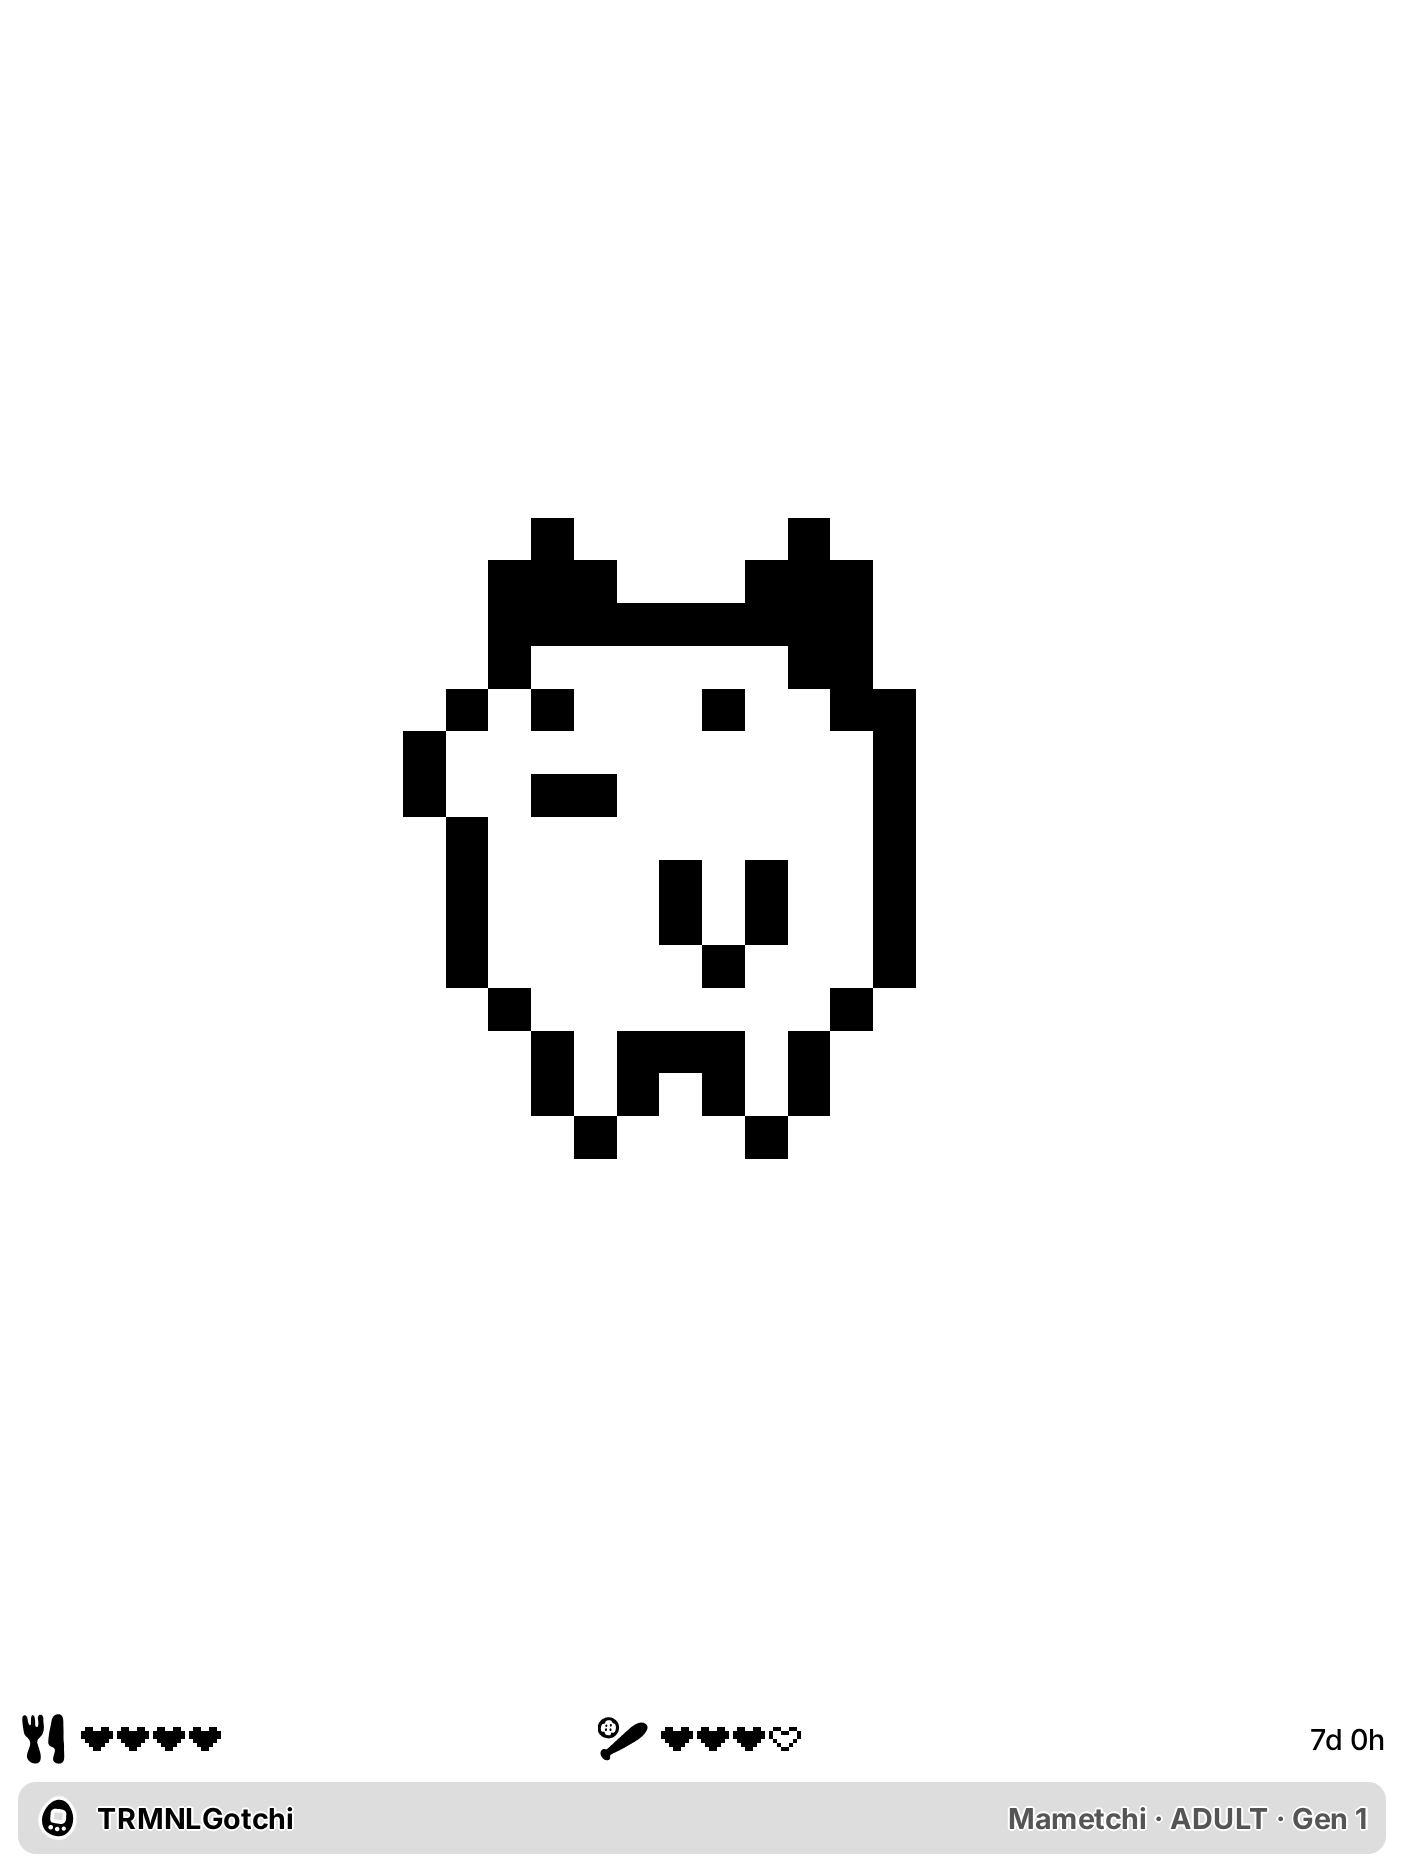
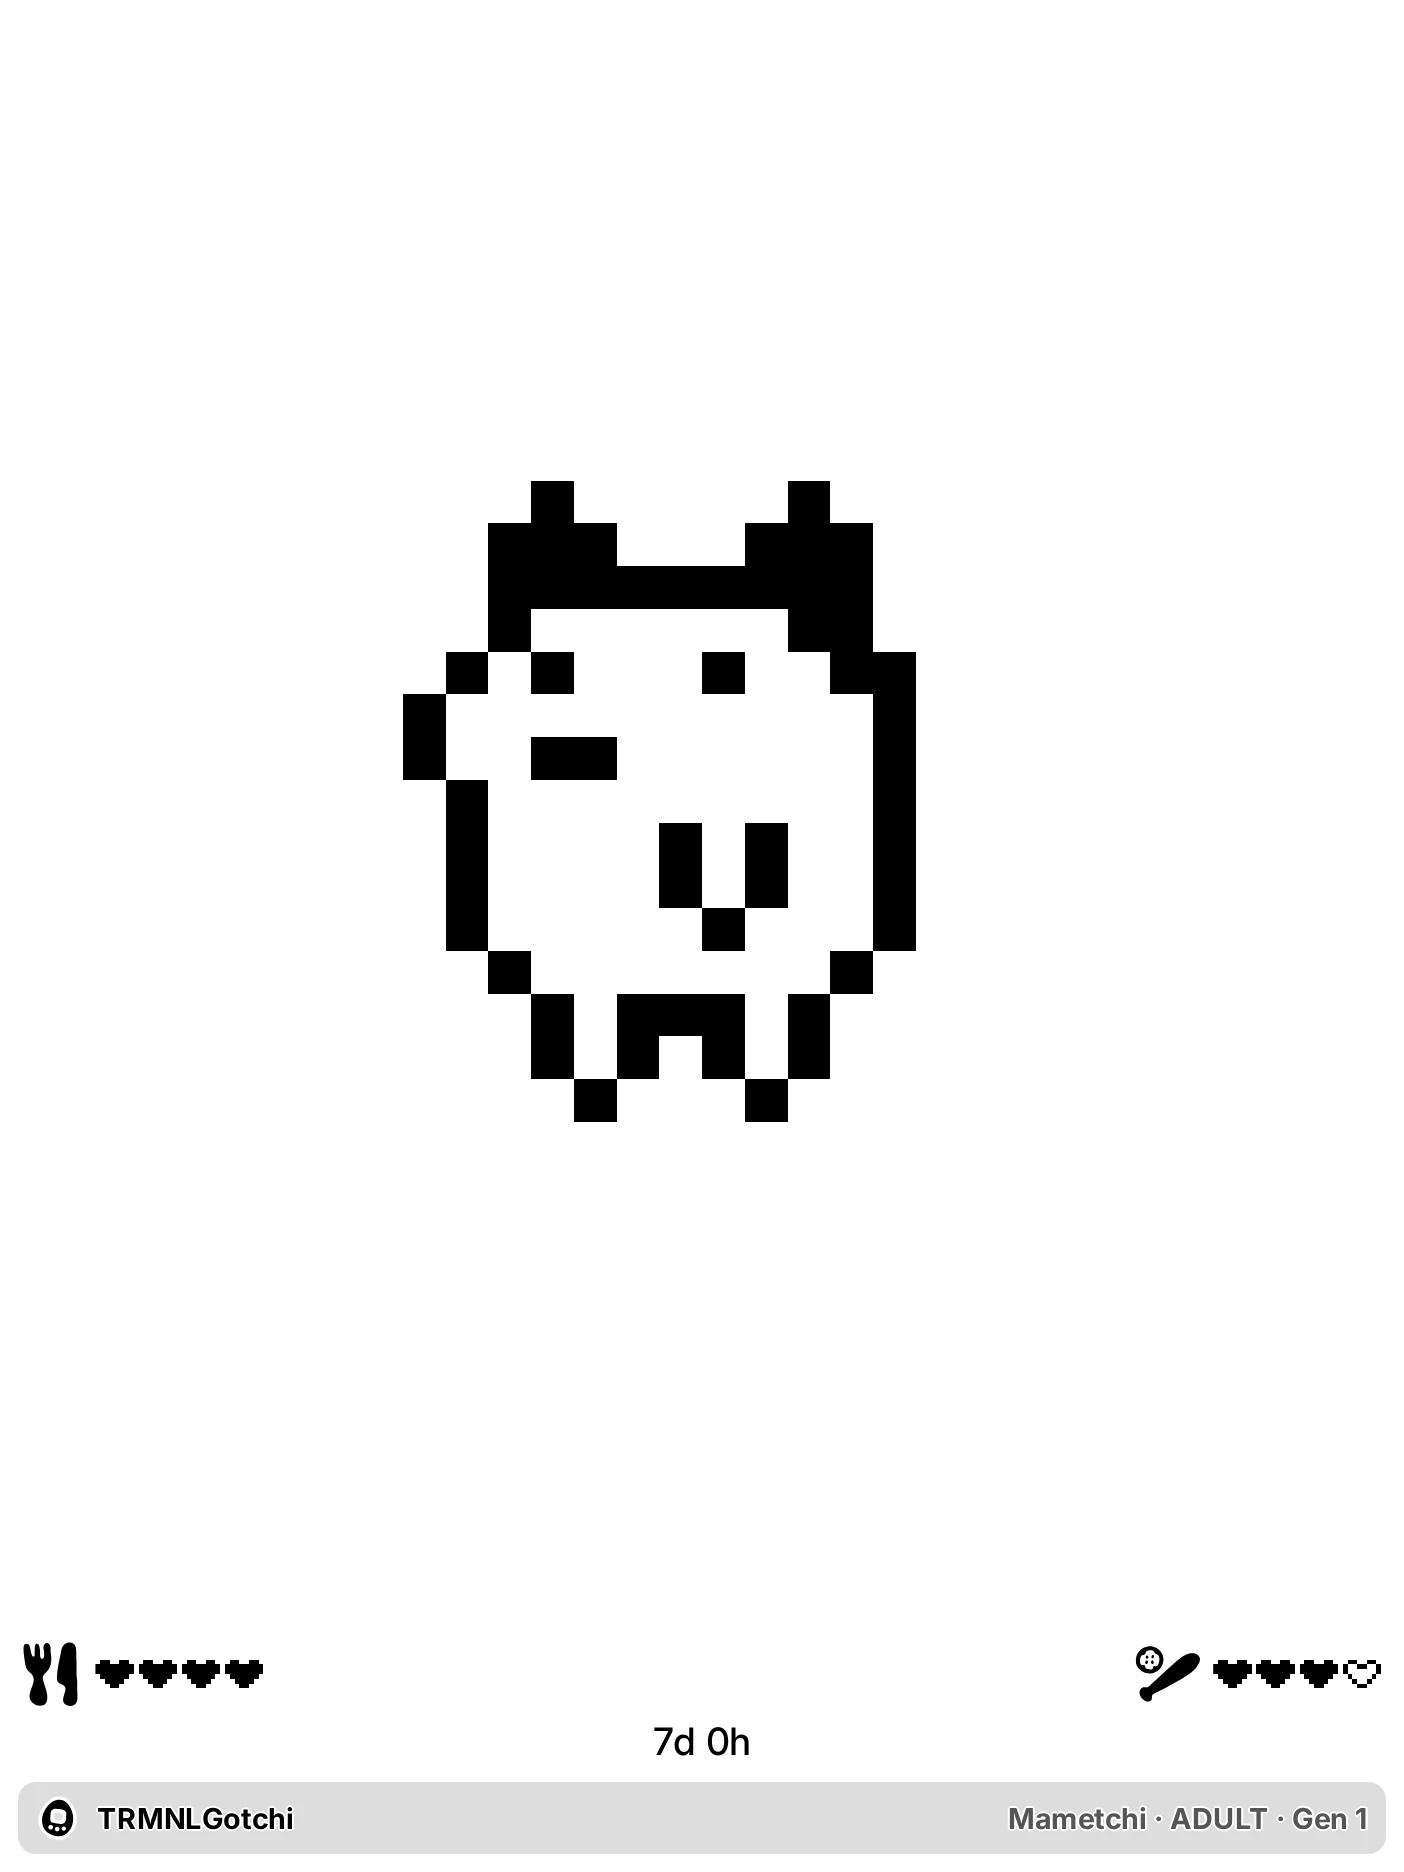
refactor: share responsive TRMNL layouts

diff --git a/TRMNL/README.md b/TRMNL/README.md
@@ -27,7 +27,7 @@ Previews use a fixed Mametchi artwork fixture rendered with Framework 3.4.3.
 ## Templates
 
 - **transform.js**: Simulation, seeded care, evolution, saved state and original sprite data.
-- **shared.liquid**: Shared logo and status icons.
+- **shared.liquid**: Shared icons, pet artwork, needs, notices and title bar. Each layout supplies its sizing and banner options.
 - **full.liquid**: Centered pet, food, joy and age, with the character, stage and generation in the title bar.
 - **half_horizontal.liquid**: The same information in a shorter horizontal view.
 - **half_vertical.liquid**: Pet and needs with the character name and generation in the title bar.
